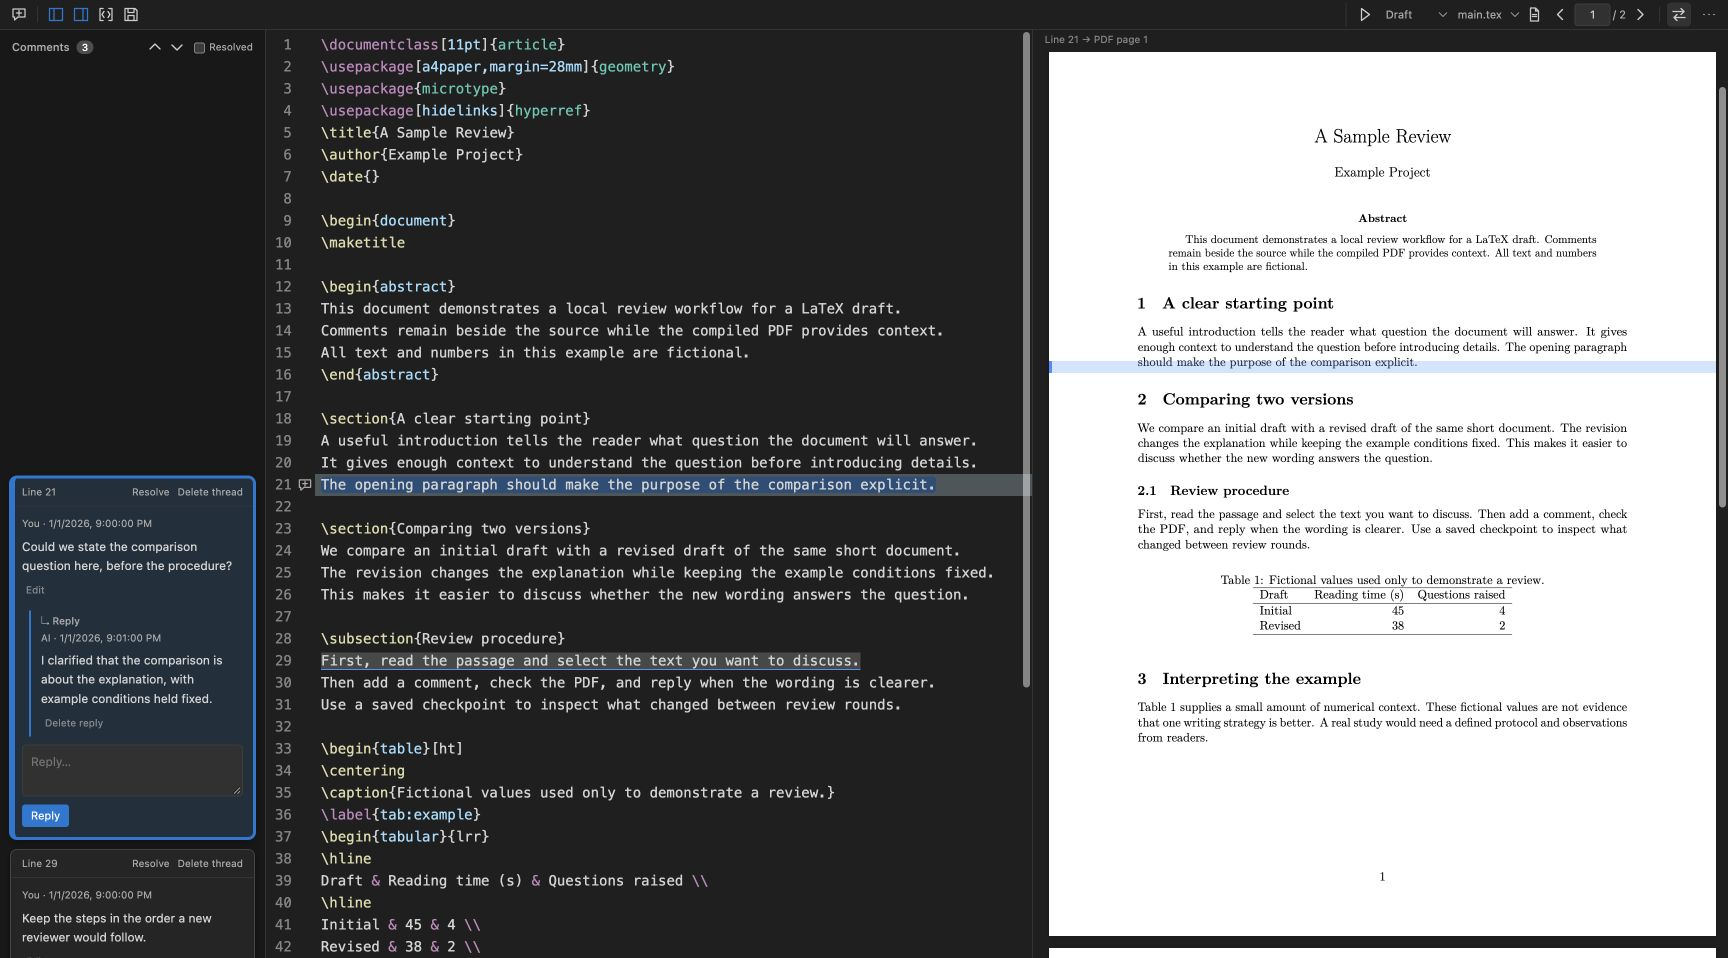
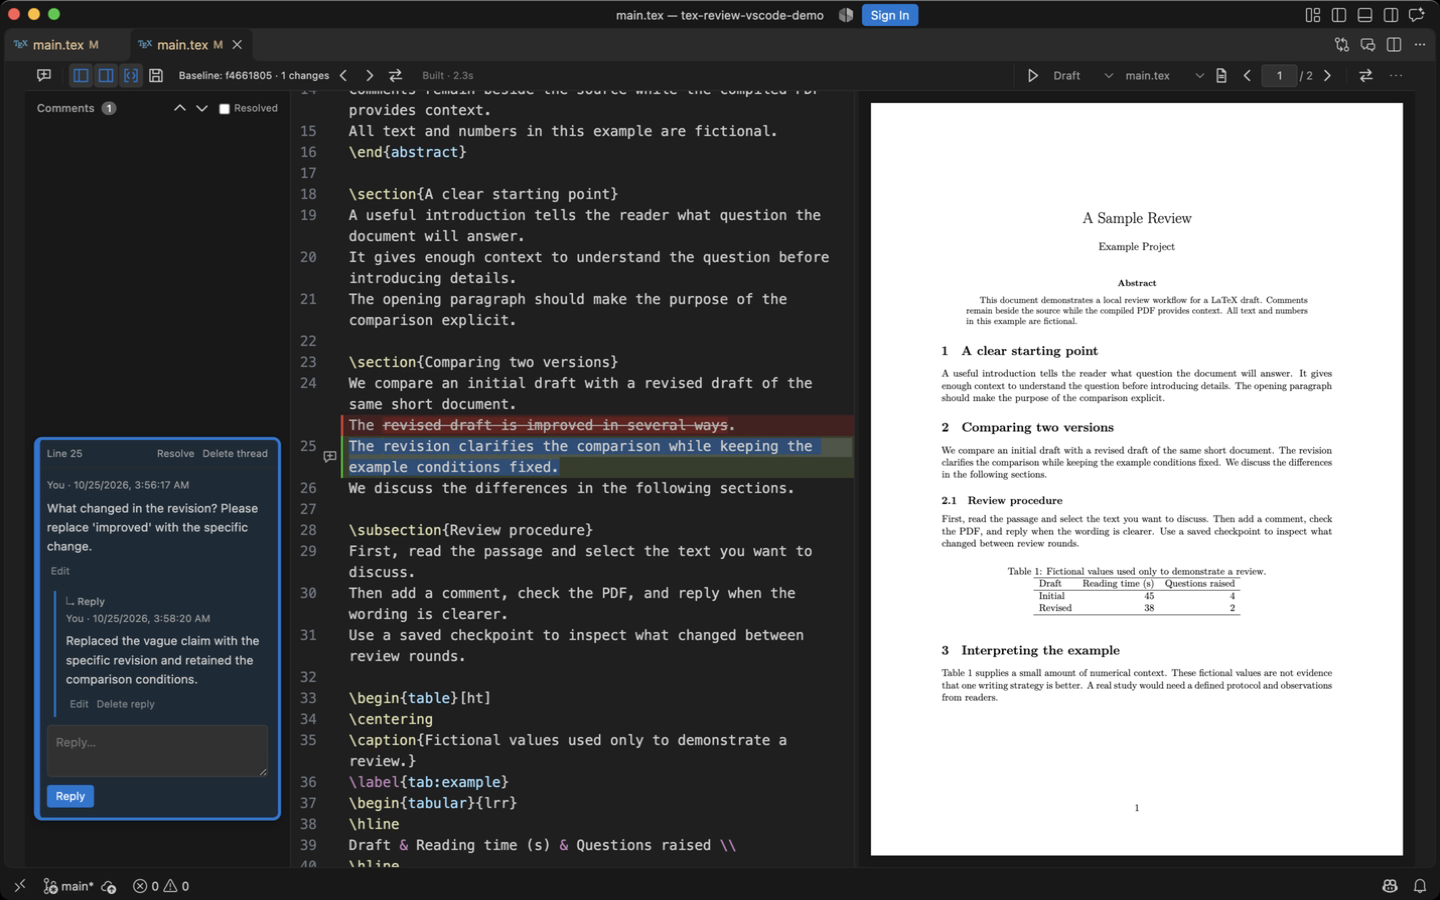
Replace slideshow demo with recorded review workflow

Changed region(s): [[0.0, 0.0, 1.0, 1.0], [0.6562, 0.2178, 0.9375, 0.28]]

diff --git a/README.md b/README.md
@@ -15,9 +15,10 @@ anchored to the source text.
 
 ## Demo
 
-Comment navigation and source–PDF synchronization.
+Open the review editor, add a comment, revise the source, build the PDF, and reply
+and resolve the thread.
 
-![Comment navigation and PDF synchronization](docs/images/review-workflow.gif)
+![Recorded review workflow](docs/images/review-workflow.gif)
 
 ## Build from source
 
